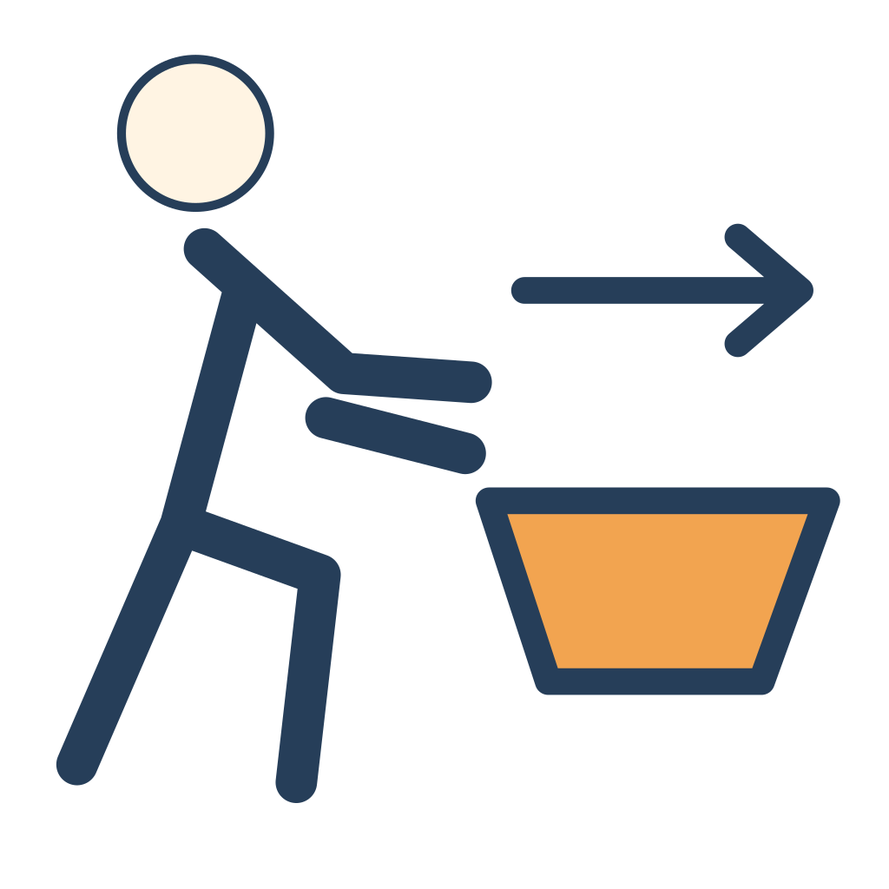
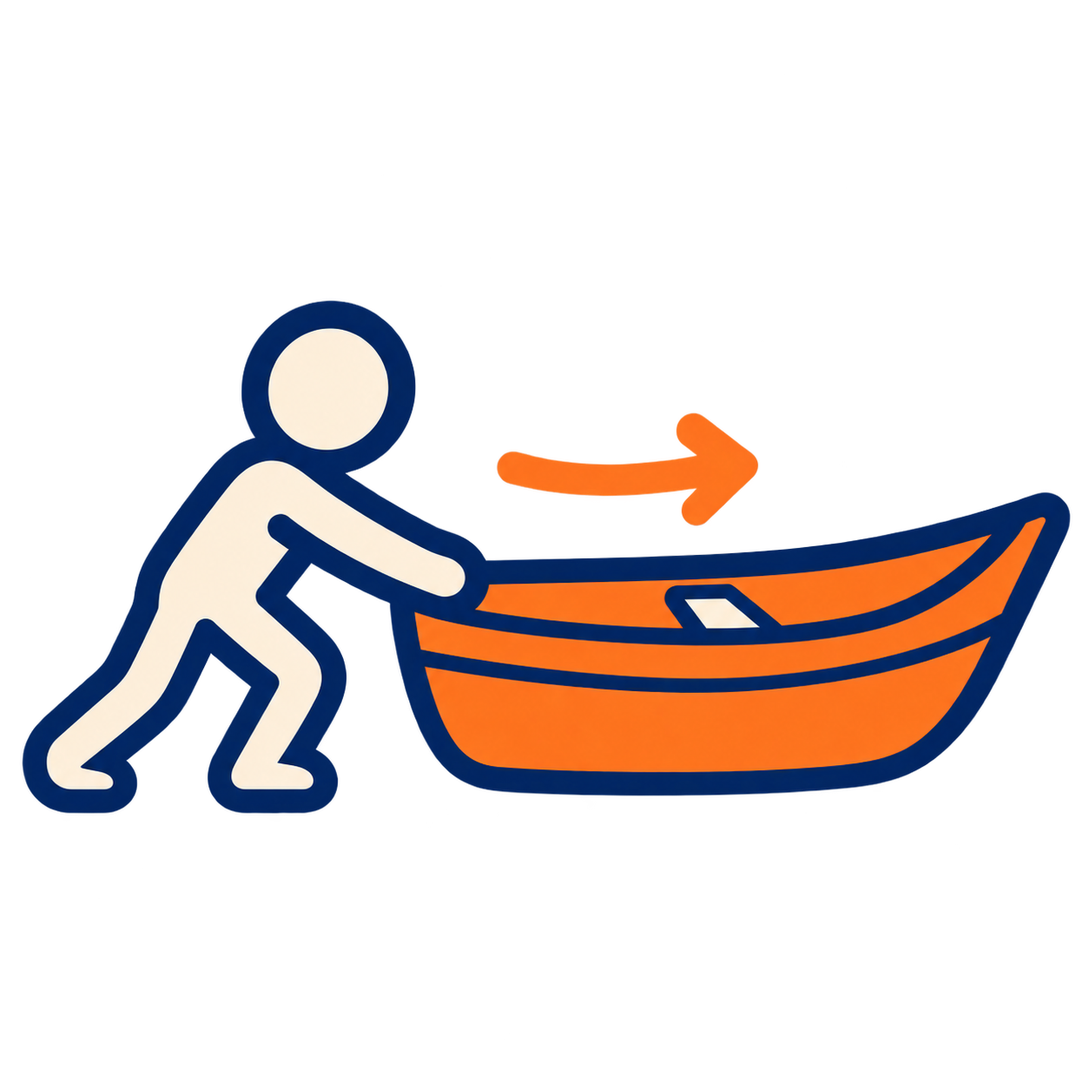
Update game for instant start, supplied illustrations and animated lever

diff --git a/game.js b/game.js
@@ -3,39 +3,53 @@
  const D=window.GAME_DATA,$=id=>document.getElementById(id);
  const timers=new Set();let audio=null,assetErrors=[],loaded=false,sound=true,allowExample=false,hints=false;
  try{sound=localStorage.getItem('kg-sound')!=='false';allowExample=localStorage.getItem('kg-example')==='true';}catch{}
- const S={phase:'cover',currentLevel:1,currentRound:0,completedRounds:0,currentResult:null,heroes:[],pairs:[],moods:[],passedFirst:false};
+ const S={phase:'loading',currentLevel:1,currentRound:0,completedRounds:0,currentResult:null,heroes:[],pairs:[],moods:[],passedFirst:false};
  const reduced=()=>matchMedia('(prefers-reduced-motion: reduce)').matches;
  function later(fn,ms){const id=setTimeout(()=>{timers.delete(id);fn();},ms);timers.add(id);return id;}
- function cancel(){for(const id of timers)clearTimeout(id);timers.clear();}
+ function cancel(){for(const id of timers)clearTimeout(id);timers.clear();for(const a of $('lever-image').getAnimations())a.cancel();}
  function persist(){try{localStorage.setItem('kg-sound',String(sound));localStorage.setItem('kg-example',String(allowExample));}catch{}}
  function beep(type){if(!sound)return;try{audio??=new(window.AudioContext||window.webkitAudioContext)();audio.resume().catch(()=>{});const o=audio.createOscillator(),g=audio.createGain();o.connect(g);g.connect(audio.destination);o.type='sine';o.frequency.setValueAtTime(type==='confirm'?660:type==='stop'?440:280,audio.currentTime);g.gain.setValueAtTime(.045,audio.currentTime);g.gain.exponentialRampToValueAtTime(.001,audio.currentTime+.13);o.start();o.stop(audio.currentTime+.15);}catch{}}
  function shuffle(items){const a=[...items];for(let i=a.length-1;i>0;i--){const j=Math.floor(Math.random()*(i+1));[a[i],a[j]]=[a[j],a[i]];}return a;}
  function resultAt(i){const pair=S.pairs[i];return{hero:S.heroes[i],action:D.actions.find(a=>a.id===pair.actionId),object:D.objects.find(o=>o.id===pair.objectId),mood:S.currentLevel===2?S.moods[i]:null,pair};}
  function sentence(r){const words=[...(r.mood?[r.mood[r.hero.gender]]:[]),r.hero.word,r.action.word,r.object.accusative];const t=words.join(' ');return t[0].toUpperCase()+t.slice(1)+'.';}
  function categories(){return [...(S.currentLevel===2?[{key:'mood',list:D.moods,question:'Какой? Какая?'}]:[]),{key:'hero',list:D.heroes,question:'Кто?'},{key:'action',list:D.actions,question:'Что делает?'},{key:'object',list:D.objects,question:'Что?'}];}
- function showScreen(id){for(const name of ['cover','game','complete'])$(name).hidden=name!==id;document.body.classList.remove('celebrating');$('confetti').replaceChildren();}
- function controls(){const ready=S.phase==='ready',awaiting=S.phase==='awaitingSpeech';$('spin').disabled=!ready;$('lever').disabled=!ready;$('confirm').disabled=!awaiting;$('hint').disabled=!awaiting;$('example').hidden=!allowExample||!awaiting;$('home').disabled=S.phase==='cover';$('round-label').textContent=`Предложение ${Math.min(S.currentRound+1,5)} из 5`;$('level-label').textContent=`УРОВЕНЬ ${S.currentLevel} · ${S.currentLevel===1?'ТРИ СЛОВА':'ЧЕТЫРЕ СЛОВА'}`;$('stars').innerHTML=Array.from({length:5},(_,i)=>`<span class="${i<S.completedRounds?'filled':''}">★</span>`).join('');$('stars').setAttribute('aria-label',`${S.completedRounds} из 5 предложений готовы`);$('sound').textContent=`Звук: ${sound?'вкл.':'выкл.'}`;$('sound').setAttribute('aria-pressed',String(sound));}
- function setCard(slot,item){const img=slot.querySelector('img');img.src=item.image;img.alt=item.alt;slot.querySelector('.hero-label').textContent=slot.dataset.key==='hero'?item.word:'';slot.querySelector('.card-image').setAttribute('aria-label',`Увеличить: ${item.alt}`);slot._item=item;}
- function drawCards(r){$('cards').classList.toggle('four',S.currentLevel===2);$('cards').replaceChildren();categories().forEach((c,i)=>{const slot=document.createElement('div');slot.className=`card-slot ${c.key}`;slot.dataset.key=c.key;slot.innerHTML=`<p class="question"><span class="order">${i+1}</span>${c.question}</p><button class="card-image"><img draggable="false"><span class="hero-label"></span></button><p class="card-hint" hidden>${c.question}</p>`;setCard(slot,r?r[c.key]:c.list[0]);slot.querySelector('button').addEventListener('click',()=>{if(S.phase==='spinning'||!slot._item)return;openModal(`<img class="zoom-image" src="${slot._item.image}" alt="${slot._item.alt}">`);});$('cards').append(slot);});}
+ function showScreen(id){for(const name of ['game','complete'])$(name).hidden=name!==id;document.body.classList.remove('celebrating');$('confetti').replaceChildren();}
+ function controls(){const ready=S.phase==='ready',awaiting=S.phase==='awaitingSpeech';$('spin').disabled=!ready;$('lever').disabled=!ready;$('confirm').disabled=!awaiting;$('hint').disabled=!awaiting;$('example').hidden=!allowExample||!awaiting;$('restart').disabled=!loaded;$('round-label').textContent=`Предложение ${Math.min(S.currentRound+1,5)} из 5`;$('level-label').textContent=`УРОВЕНЬ ${S.currentLevel} · ${S.currentLevel===1?'ТРИ СЛОВА':'ЧЕТЫРЕ СЛОВА'}`;$('stars').innerHTML=Array.from({length:5},(_,i)=>`<span class="${i<S.completedRounds?'filled':''}">★</span>`).join('');$('stars').setAttribute('aria-label',`${S.completedRounds} из 5 предложений готовы`);$('sound').textContent=`Звук: ${sound?'вкл.':'выкл.'}`;$('sound').setAttribute('aria-pressed',String(sound));}
+ function setCard(slot,item){const img=slot.querySelector('img');slot.querySelector('.category-icon')?.remove();img.hidden=false;img.src=item.image;img.alt=item.alt;slot.querySelector('.hero-label').textContent=slot.dataset.key==='hero'?item.word:'';slot.querySelector('.card-image').setAttribute('aria-label',`Увеличить: ${item.alt}`);slot._item=item;}
+ function drawCards(r){$('cards').classList.toggle('four',S.currentLevel===2);$('cards').replaceChildren();categories().forEach((c,i)=>{const slot=document.createElement('div');slot.className=`card-slot ${c.key}`;slot.dataset.key=c.key;slot.innerHTML=`<p class="question"><span class="order">${i+1}</span>${c.question}</p><button class="card-image"><img draggable="false"><span class="hero-label"></span></button><p class="card-hint" hidden>${c.question}</p>`;if(r)setCard(slot,r[c.key]);else{slot.querySelector('img').hidden=true;const icon=document.createElement('span');icon.className='category-icon';icon.setAttribute('aria-hidden','true');icon.innerHTML='<svg viewBox="0 0 100 100">'+{hero:'<circle cx="50" cy="28" r="15"/><path d="M20 85V73a30 30 0 0 1 60 0v12z"/>',action:'<path d="M20 80L80 20M35 20H80V65"/>',object:'<path d="M50 10L90 32V72L50 94L10 72V32zM10 32L50 54L90 32M50 54V94"/>',mood:'<circle cx="50" cy="50" r="40"/><path d="M30 40h2M68 40h2M30 65Q50 78 70 65"/>'}[c.key]+'</svg>';slot.querySelector('button').prepend(icon);slot.querySelector('button').disabled=true;slot.querySelector('button').setAttribute('aria-label',c.question+' — результат появится после вращения');}slot.querySelector('button').addEventListener('click',()=>{if(S.phase==='spinning'||!slot._item)return;openModal(`<img class="zoom-image" src="${slot._item.image}" alt="${slot._item.alt}">`);});$('cards').append(slot);});}
  function clearHelp(){hints=false;$('scheme').hidden=true;$('sentence').hidden=true;$('hint').textContent='Подсказка';for(const el of document.querySelectorAll('.card-hint'))el.hidden=true;}
- function start(level,passedFirst=false){if(S.phase==='spinning'||!loaded)return;cancel();$('modal').close();S.currentLevel=level;S.currentRound=0;S.completedRounds=0;S.currentResult=null;S.passedFirst=passedFirst;S.heroes=shuffle(D.heroes);S.pairs=shuffle(D.pairs);S.moods=shuffle(D.moods);S.phase='ready';clearHelp();showScreen('game');$('introduction').hidden=false;drawCards(null);$('instruction').textContent='Нажми «Крутить!» — начнём историю';controls();$('spin').focus();}
- function spin(){if(S.phase!=='ready')return;cancel();clearHelp();S.currentResult=resultAt(S.currentRound);S.phase='spinning';$('introduction').hidden=true;$('instruction').textContent='Картинки кружатся…';controls();beep('start');const cats=categories(),slots=[...$('cards').children],duration=reduced()?100:2100;
- cats.forEach((c,i)=>{const slot=slots[i];slot.classList.add('spinning');slot.querySelector('button').disabled=true;const stopAt=duration+i*(reduced()?50:250),started=performance.now();function tick(){if(S.phase!=='spinning')return;const elapsed=performance.now()-started;if(elapsed<stopAt){setCard(slot,c.list[Math.floor(Math.random()*c.list.length)]);later(tick,reduced()?100:85+elapsed/35);}else{setCard(slot,S.currentResult[c.key]);slot.classList.remove('spinning');slot.querySelector('button').disabled=false;beep('stop');if(i===cats.length-1){S.phase='awaitingSpeech';$('instruction').textContent='Составь предложение';controls();$('confirm').focus();}}}tick();});}
+ function start(level,passedFirst=false){if(!loaded)return;cancel();$('modal').close();S.currentLevel=level;S.currentRound=0;S.completedRounds=0;S.currentResult=null;S.passedFirst=passedFirst;S.heroes=shuffle(D.heroes);S.pairs=shuffle(D.pairs);S.moods=shuffle(D.moods);S.phase='ready';clearHelp();showScreen('game');drawCards(null);$('instruction').textContent='Нажми «Крутить!» — начнём историю';controls();$('spin').focus();}
+ function spin(){
+  if(S.phase!=='ready')return;
+  cancel();clearHelp();S.currentResult=resultAt(S.currentRound);S.phase='spinning';
+  $('instruction').textContent='Картинки кружатся…';controls();
+  const lever=$('lever-image');
+  if(reduced())lever.animate([{opacity:1},{opacity:.65},{opacity:1}],{duration:150});
+  else lever.animate([{transform:'rotate(0deg)',offset:0},{transform:'rotate(55deg)',offset:.34},{transform:'rotate(55deg)',offset:.51},{transform:'rotate(-3deg)',offset:.93},{transform:'rotate(0deg)',offset:1}],{duration:580,easing:'ease-in-out'});
+  later(()=>{if(S.phase!=='spinning')return;beep('start');const cats=categories(),slots=[...$('cards').children],duration=reduced()?100:2000;
+   cats.forEach((c,i)=>{const slot=slots[i];slot.classList.add('spinning');slot.querySelector('button').disabled=true;const stopAt=duration+i*(reduced()?50:250),started=performance.now();
+    function tick(){if(S.phase!=='spinning')return;const elapsed=performance.now()-started;
+     if(elapsed<stopAt){setCard(slot,c.list[Math.floor(Math.random()*c.list.length)]);later(tick,reduced()?100:85+elapsed/35);}
+     else{setCard(slot,S.currentResult[c.key]);slot.classList.remove('spinning');slot.querySelector('button').disabled=false;beep('stop');if(i===cats.length-1){S.phase='awaitingSpeech';$('instruction').textContent='Составь предложение';controls();$('confirm').focus();}}
+    }tick();
+   });
+  },reduced()?0:200);
+ }
  function confirmAnswer(){if(S.phase!=='awaitingSpeech')return;S.phase='celebrating';S.completedRounds++;controls();clearHelp();$('instruction').textContent='Отличная история!';document.body.classList.add('celebrating');beep('confirm');later(()=>{document.body.classList.remove('celebrating');if(S.completedRounds===5){S.phase=S.currentLevel===1?'levelComplete':'finished';if(S.currentLevel===1)S.passedFirst=true;finish();}else{S.currentRound++;S.phase='ready';$('instruction').textContent='Готовы к новой истории? Нажми «Крутить!»';controls();$('spin').focus();}},800);}
- function finish(){showScreen('complete');$('complete-title').textContent=S.currentLevel===1?'Ты составил 5 предложений!':`Отлично! Ты составил ${S.passedFirst?10:5} предложений!`;$('complete-message').textContent=S.currentLevel===1?'Теперь добавим настроение':'Сколько интересных историй получилось!';const actions=$('complete-actions');actions.replaceChildren();function add(text,fn,primary){const b=document.createElement('button');b.className=primary?'primary':'quiet';b.textContent=text;b.onclick=fn;actions.append(b);}if(S.currentLevel===1){add('Уровень 2',()=>start(2,true),true);add('Повторить уровень 1',()=>start(1));}else{add('Играть сначала',()=>start(1),true);add('На главный экран',home);if(!reduced()){for(let i=0;i<32;i++){const el=document.createElement('i');el.style.left=`${Math.random()*100}%`;el.style.background=['#e7b557','#78bbb5','#b5a0d3','#ed9b87'][i%4];el.style.animationDelay=`${Math.random()*.4}s`;$('confetti').append(el);}later(()=>$('confetti').replaceChildren(),2600);}}controls();actions.querySelector('button').focus();}
- function home(){cancel();$('modal').close();S.phase='cover';S.currentResult=null;S.completedRounds=0;S.currentRound=0;S.passedFirst=false;showScreen('cover');clearHelp();controls();$('play').focus();}
+ function finish(){showScreen('complete');$('complete-title').textContent=S.currentLevel===1?'Ты составил 5 предложений!':`Отлично! Ты составил ${S.passedFirst?10:5} предложений!`;$('complete-message').textContent=S.currentLevel===1?'Теперь добавим настроение':'Сколько интересных историй получилось!';const actions=$('complete-actions');actions.replaceChildren();function add(text,fn,primary){const b=document.createElement('button');b.className=primary?'primary':'quiet';b.textContent=text;b.onclick=fn;actions.append(b);}if(S.currentLevel===1){add('Уровень 2',()=>start(2,true),true);add('Повторить уровень 1',()=>start(1));}else{add('Играть сначала',()=>start(1),true);if(!reduced()){for(let i=0;i<32;i++){const el=document.createElement('i');el.style.left=`${Math.random()*100}%`;el.style.background=['#e7b557','#78bbb5','#b5a0d3','#ed9b87'][i%4];el.style.animationDelay=`${Math.random()*.4}s`;$('confetti').append(el);}later(()=>$('confetti').replaceChildren(),2600);}}controls();actions.querySelector('button').focus();}
  function openModal(html){$('modal-content').innerHTML=html;if(!$('modal').open)$('modal').showModal();}
- function settings(){openModal(`<h2>Для взрослого</h2><p>Ребёнок отвечает вслух. Вы подтверждаете любой осмысленный ответ, в том числе расширенный. Микрофон не используется.</p><label class="settings-row"><input type="checkbox" id="example-setting" ${allowExample?'checked':''}>Разрешить кнопку «Показать пример»</label><button id="direct-level" class="primary" ${S.phase==='spinning'?'disabled':''}>Начать уровень 2</button><h3>Познакомьтесь с действиями</h3><p>Покажите знаки ребёнку. Если знак непонятен, объясните движение перед игрой.</p><div class="asset-review">${D.actions.map(a=>`<figure><img src="${a.image}" alt="${a.alt}"><figcaption>${a.word}</figcaption></figure>`).join('')}</div>${assetErrors.length?`<h3>Не удалось загрузить ресурсы</h3><ul class="error-list">${assetErrors.map(p=>`<li>${p}</li>`).join('')}</ul><p>Проверьте наличие файлов и обновите страницу.</p>`:''}`);$('example-setting').onchange=e=>{allowExample=e.target.checked;persist();controls();if(!allowExample)$('sentence').hidden=true;};$('direct-level').onclick=()=>{if(S.phase==='cover'||S.phase==='finished'||S.phase==='levelComplete')start(2);else{openModal('<h2>Начать второй уровень?</h2><p>Текущий прогресс будет сброшен.</p><button id="accept-level" class="primary">Начать уровень 2</button>');$('accept-level').onclick=()=>start(2);}};}
- $('play').onclick=()=>start(1);$('spin').onclick=spin;$('lever').onclick=spin;$('confirm').onclick=confirmAnswer;$('settings').onclick=settings;
+ function settings(){openModal(`<h2>Для взрослого</h2><p>Ребёнок отвечает вслух. Вы подтверждаете любой осмысленный ответ, в том числе расширенный. Микрофон не используется.</p><label class="settings-row"><input type="checkbox" id="example-setting" ${allowExample?'checked':''}>Разрешить кнопку «Показать пример»</label><button id="direct-level" class="primary" ${S.phase==='spinning'||!loaded?'disabled':''}>Начать уровень 2</button><h3>Познакомьтесь с действиями</h3><p>Покажите знаки ребёнку. Если знак непонятен, объясните движение перед игрой.</p><div class="asset-review">${D.actions.map(a=>`<figure><img src="${a.image}" alt="${a.alt}"><figcaption>${a.word}</figcaption></figure>`).join('')}</div>${assetErrors.length?`<h3>Не удалось загрузить ресурсы</h3><ul class="error-list">${assetErrors.map(p=>`<li>${p}</li>`).join('')}</ul><p>Проверьте наличие файлов и обновите страницу.</p>`:''}`);$('example-setting').onchange=e=>{allowExample=e.target.checked;persist();controls();if(!allowExample)$('sentence').hidden=true;};$('direct-level').onclick=()=>{if(S.phase==='ready'&&S.currentRound===0||S.phase==='finished'||S.phase==='levelComplete')start(2);else{openModal('<h2>Начать второй уровень?</h2><p>Текущий прогресс будет сброшен.</p><button id="accept-level" class="primary">Начать уровень 2</button>');$('accept-level').onclick=()=>start(2);}};}
+ $('spin').onclick=spin;$('lever').onclick=spin;$('confirm').onclick=confirmAnswer;$('settings').onclick=settings;
  $('sound').onclick=()=>{sound=!sound;persist();controls();if(sound)beep('stop');};
  $('hint').onclick=()=>{if(S.phase!=='awaitingSpeech')return;hints=!hints;for(const el of document.querySelectorAll('.card-hint'))el.hidden=!hints;$('scheme').textContent=categories().map(c=>c.question).join(' → ');$('scheme').hidden=!hints;$('hint').textContent=hints?'Скрыть подсказку':'Подсказка';};
  $('example').onclick=()=>{if(S.phase!=='awaitingSpeech'||!allowExample)return;$('sentence').textContent=sentence(S.currentResult);$('sentence').hidden=!$('sentence').hidden;};
- $('home').onclick=()=>{if(S.phase==='cover')return;openModal('<h2>Выйти на главный экран?</h2><p>Прогресс этой игры будет сброшен.</p><button id="accept-home" class="primary">Выйти</button> <button id="stay-home" class="quiet">Продолжить игру</button>');$('accept-home').onclick=home;$('stay-home').onclick=()=>$('modal').close();};
+ $('restart').onclick=()=>{if(!loaded)return;openModal('<h2>Начать игру заново?</h2><p>Прогресс этой игры будет сброшен.</p><button id="accept-restart" class="primary">Начать заново</button> <button id="stay-restart" class="quiet">Продолжить игру</button>');$('accept-restart').onclick=()=>start(1);$('stay-restart').onclick=()=>$('modal').close();};
+ $('heroes').onclick=()=>openModal('<h2>Наши герои</h2><div id="gallery">'+D.heroes.map(h=>`<figure>${assetErrors.includes(h.image)?'<p>Картинка ещё не добавлена</p>':`<img src="${h.image}" alt="${h.alt}">`}<figcaption>Это ${h.word}.</figcaption></figure>`).join('')+'</div>');
  $('rules').onclick=()=>openModal('<h2>Как играть</h2><p>Нажми на кнопку. Посмотри на картинки. Составь предложение. На втором уровне добавь настроение героя.</p><p>Взрослый нажимает «Предложение готово!», когда ребёнок ответил. Следующая история начинается только по вашему нажатию.</p>');
  $('close-modal').onclick=()=>$('modal').close();$('modal').addEventListener('click',e=>{if(e.target===$('modal')){const r=$('modal').getBoundingClientRect();if(e.clientX<r.left||e.clientX>r.right||e.clientY<r.top||e.clientY>r.bottom)$('modal').close();}});
  if(document.fullscreenEnabled&&document.documentElement.requestFullscreen){$('fullscreen').hidden=false;$('fullscreen').setAttribute('aria-label','Во весь экран');$('fullscreen').onclick=async()=>{try{if(document.fullscreenElement)await document.exitFullscreen();else await document.documentElement.requestFullscreen();}catch{}};}
- for(const hero of D.heroes){const f=document.createElement('figure'),img=document.createElement('img'),caption=document.createElement('figcaption');img.src=hero.image;img.alt=hero.alt;caption.textContent=`Это ${hero.word}.`;f.append(img,caption);$('gallery').append(f);}
- $('play').disabled=true;controls();
- const assets=[...D.heroes,...D.actions,...D.objects,...D.moods].map(x=>x.image).concat(D.backgrounds);
- Promise.all(assets.map(src=>new Promise(resolve=>{const img=new Image();img.onload=()=>resolve();img.onerror=()=>{assetErrors.push(src);resolve();};img.src=src;}))).then(()=>{loaded=assetErrors.length===0;$('play').disabled=!loaded;$('loading').textContent=loaded?'Все картинки готовы':'Не удалось загрузить картинки. Откройте настройки взрослого.';if(loaded)later(()=>$('loading').hidden=true,1500);});
+ drawCards(null);$('instruction').textContent='Загружаем картинки…';controls();
+ const assets=[...D.heroes,...D.actions,...D.objects,...D.moods].map(x=>x.image).concat(D.backgrounds,D.interface);
+ let remaining=assets.length;
+ Promise.all(assets.map(src=>new Promise(resolve=>{const img=new Image();const finish=()=>{remaining--;$('loading').textContent=`Загружаем картинки: ${assets.length-remaining} из ${assets.length}`;resolve();};img.onload=finish;img.onerror=()=>{assetErrors.push(src);finish();};img.src=src;}))).then(()=>{loaded=assetErrors.length===0;if(loaded){$('loading').hidden=true;start(1);}else{S.phase='assetError';showScreen('game');drawCards(null);$('loading').textContent='Набор картинок неполный. Откройте настройки взрослого.';$('instruction').textContent='Для запуска нужны недостающие картинки';controls();}});
 })();

diff --git a/styles.css b/styles.css
@@ -2,3 +2,29 @@
 @media(max-width:700px) and (orientation:portrait){header{padding:10px}.brand{font-size:16px}nav{gap:3px}.quiet{padding:10px}#home span{display:none}.cover{padding-top:55px;background-size:auto 100%}.cover h1{letter-spacing:-2px}.cover-demo{gap:5px}.cover-demo span{padding:10px}.game-top{margin-bottom:8px}h2{font-size:17px}.stars{font-size:25px;letter-spacing:2px}.cards,.cards.four{grid-template-columns:repeat(2,minmax(0,1fr));gap:10px}.cards:not(.four) .card-slot:last-child{grid-column:1 / -1;width:calc(50% - 5px);justify-self:center}.machine{padding:10px;border-radius:20px}.lever{display:none}.card-image,.four .card-image{height:clamp(145px,23dvh,240px);border-width:5px;border-radius:15px}.question{font-size:12px;margin-bottom:5px}.order{width:21px;height:21px}.question:after{content:' →';font-size:15px}.card-slot:last-child .question:after{content:''}#gallery{gap:4px}#gallery img{width:48px;height:48px}#gallery figure{font-size:10px}.intro{padding:6px}#instruction{font-size:18px;margin:5px 0 12px}.controls{gap:8px}.primary{font-size:16px;padding:12px 14px;gap:8px}.game-bottom{padding-top:10px}.sentence{font-size:18px}footer{font-size:10px;padding:8px}}
 @media(max-height:600px) and (orientation:landscape){header{padding:6px 2%}.brand{font-size:18px}.intro{padding:3px}#gallery img{height:45px;width:45px}.intro>p{font-size:11px}.card-image,.four .card-image{height:43dvh;min-height:115px}.game-top{margin-bottom:5px}h2{font-size:17px}.stars{font-size:26px}.question{font-size:12px;margin-bottom:4px}.machine{padding:7px 32px 7px 7px}.cards{gap:10px}.game-bottom{padding-top:5px}#instruction{font-size:16px;margin:4px 0 8px}.primary{padding:10px 16px;font-size:16px}.cover{padding-top:12px}.cover h1{font-size:45px;margin:10px}.cover-demo{margin:10px}.cover-note{margin:15px}footer{padding:5px}}
 @media(prefers-reduced-motion:reduce){*,*:before,*:after{animation:none!important;scroll-behavior:auto!important}}
+/* The supplied frame and its HTML overlays share a single coordinate system. */
+.machine{width:min(88%,calc(177.7dvh - 600px));margin:0 auto;aspect-ratio:1672/941;padding:0;background:transparent;border-radius:0;box-shadow:none;overflow:visible}
+.machine-frame{position:absolute;inset:0;width:100%;height:100%;object-fit:contain;pointer-events:none}
+.machine .cards{position:absolute;left:9.5%;top:20%;width:76%;height:54%;gap:1.3%;align-items:stretch}
+.machine .card-slot{display:flex;flex-direction:column;min-height:0}
+.machine .question{font-size:clamp(12px,1.2vw,18px);flex-shrink:0;margin:0 0 6px}
+.machine .card-image,.machine .four .card-image{height:auto;min-height:0;flex:1;border-width:5px;padding:3px;border-radius:17px;box-shadow:none}
+.machine .card-hint{margin:3px 0 0;font-size:12px;flex-shrink:0}
+.category-icon{display:grid;place-items:center;flex:1;color:#86aaa9;font-size:clamp(50px,8vw,120px)}
+.machine .lever{display:block;position:absolute;left:84.2%;top:20%;width:25%;height:39%;min-height:44px;padding:0;background:transparent;border:0;transform:none;z-index:2}
+.machine .lever:before{display:none}
+.machine .lever img{display:block;width:100%;height:100%;object-fit:contain;transform-origin:50% 89%;pointer-events:none}
+.machine .lever:disabled{opacity:1}
+.machine .lever:focus-visible{outline-offset:-25px}
+#loading{text-align:center;color:#755326;font-size:14px;margin:8px}
+#gallery img{width:95px;height:110px}#gallery figure{max-width:110px}
+@media(max-width:700px) and (orientation:portrait){
+ .brand{font-size:14px}#restart span{display:none}header{gap:4px}#restart{padding:10px}.machine{width:100%;aspect-ratio:auto;background:#82cbc4;padding:12px 40px 12px 10px;border-radius:22px;box-shadow:0 5px 0 #5eaba6}
+ .machine-frame{display:none}.machine .cards{position:static;width:100%;height:auto;gap:10px}.machine .card-image,.machine .four .card-image{height:clamp(145px,23dvh,230px);flex:auto}.machine .question{font-size:12px}.machine .lever{left:auto;right:-8px;top:30%;width:95px;height:150px}.machine .lever:focus-visible{outline-offset:-18px}#gallery{flex-wrap:wrap;gap:10px}#gallery img{width:75px;height:100px}
+}
+@media(max-height:600px) and (orientation:landscape){
+ .machine{width:min(88%,calc(177.7dvh - 385px))}.game-top{margin-bottom:3px}.machine .question{font-size:10px;margin-bottom:2px}.machine .order{width:17px;height:17px;font-size:10px}.machine .card-image,.machine .four .card-image{border-width:3px;border-radius:10px}.hero-label{font-size:10px;height:17px}.game-bottom .controls{gap:6px}.game-bottom .quiet{font-size:12px;padding:8px 10px}.game-bottom .primary{font-size:13px;padding:8px 12px}.game-bottom #instruction{font-size:14px;margin:3px 0 6px}
+}
+
+.category-icon svg{width:60%;height:60%;max-width:140px;max-height:140px;stroke:currentColor;stroke-width:4;fill:none;stroke-linecap:round;stroke-linejoin:round}
+@media(max-width:700px) and (orientation:portrait){.machine .lever{right:0;top:36%;width:65px;height:65px}.machine .lever img{object-fit:fill}}

diff --git a/index.html b/index.html
@@ -1,7 +1,6 @@
 <!doctype html>
 <html lang="ru"><head><meta charset="utf-8"><meta name="viewport" content="width=device-width,initial-scale=1,viewport-fit=cover"><meta name="theme-color" content="#65bdb8"><title>Крути и говори! — предложения по картинкам</title><link rel="stylesheet" href="styles.css"><script defer src="data.js"></script><script defer src="game.js"></script></head>
-<body><div class="app"><header><button id="home" class="quiet">⌂ <span>Домой</span></button><div class="brand">Крути и говори<span class="brand-dot">!</span></div><nav aria-label="Настройки"><button id="sound" class="quiet" aria-pressed="true">Звук: вкл.</button><button id="fullscreen" class="quiet" hidden>⛶</button><button id="settings" class="quiet" aria-label="Настройки взрослого">⚙</button></nav></header>
-<main><section id="cover" class="cover"><div class="eyebrow">ИГРАЕМ · ДУМАЕМ · ГОВОРИМ</div><h1>Крути<br>и говори<span>!</span></h1><p class="subtitle">Составляй предложения по картинкам</p><div class="cover-demo" aria-hidden="true"><span>Кто?</span><b>→</b><span>Что делает?</span><b>→</b><span>Что?</span></div><button id="play" class="primary">Играть <span>→</span></button><button id="rules" class="quiet">Как играть</button><p class="cover-note">Два уровня · 10 маленьких историй<br>Для детей и взрослых</p><p id="loading" role="status">Загружаем картинки…</p></section>
-<section id="game" hidden><div class="game-top"><div><span class="eyebrow" id="level-label"></span><h2 id="round-label"></h2></div><div id="stars" class="stars" aria-label="Прогресс"></div></div><div id="introduction" class="intro"><p>Познакомимся с героями</p><div id="gallery"></div></div><div class="machine"><div id="cards" class="cards"></div><button id="lever" class="lever" aria-label="Крутить картинки"><span></span></button></div><div class="game-bottom"><p id="instruction" role="status" aria-live="polite"></p><div class="controls"><button id="spin" class="primary">Крутить! <span>↻</span></button><button id="confirm" class="primary gold" disabled>Предложение готово! <span>✓</span></button><button id="hint" class="quiet" disabled>Подсказка</button><button id="example" class="quiet" hidden>Показать пример</button></div><p id="sentence" class="sentence" hidden></p><p id="scheme" class="scheme" hidden></p></div></section>
+<body><div class="app"><header><button id="restart" class="quiet">↻ <span>Начать заново</span></button><div class="brand">Крути и говори<span class="brand-dot">!</span></div><nav aria-label="Настройки"><button id="sound" class="quiet" aria-pressed="true">Звук: вкл.</button><button id="fullscreen" class="quiet" hidden>⛶</button><button id="settings" class="quiet" aria-label="Настройки взрослого">⚙</button></nav></header>
+<main><section id="game"><div class="game-top"><div><span class="eyebrow" id="level-label"></span><h2 id="round-label"></h2></div><div id="stars" class="stars" aria-label="Прогресс"></div></div><div class="machine"><img id="machine-frame" class="machine-frame" src="assets/interface/machine-frame.png" alt="" aria-hidden="true"><div id="cards" class="cards"></div><button id="lever" class="lever" aria-label="Потянуть рычаг и крутить"><img id="lever-image" src="assets/interface/machine-lever.png" alt=""></button></div><p id="loading" role="status">Загружаем картинки…</p><div class="game-bottom"><p id="instruction" role="status" aria-live="polite"></p><div class="controls"><button id="spin" class="primary">Крутить! <span>↻</span></button><button id="confirm" class="primary gold" disabled>Предложение готово! <span>✓</span></button><button id="heroes" class="quiet">Герои</button><button id="rules" class="quiet">Как играть</button><button id="hint" class="quiet" disabled>Подсказка</button><button id="example" class="quiet" hidden>Показать пример</button></div><p id="sentence" class="sentence" hidden></p><p id="scheme" class="scheme" hidden></p></div></section>
 <section id="complete" class="complete" hidden><div class="finish-stars" aria-hidden="true">★ ★ ★</div><h1 id="complete-title"></h1><p id="complete-message"></p><div id="complete-actions"></div></section></main><footer>Маленькое предложение — большая история</footer></div>
 <dialog id="modal"><button id="close-modal" class="modal-close" aria-label="Закрыть">×</button><div id="modal-content"></div></dialog><div id="confetti" aria-hidden="true"></div></body></html>

diff --git a/data.js b/data.js
@@ -10,5 +10,6 @@ window.GAME_DATA = (() => {
  objects:[object('squirrel','белка','белку','Рыжая белка с пушистым хвостом'),object('chocolate','шоколад','шоколад','Плитка шоколада без упаковки'),object('kolobok','колобок','колобка','Золотистый сказочный колобок'),object('boat','лодка','лодку','Деревянная лодка'),object('doll','кукла','куклу','Кукла в сиреневом платье с игрушечными суставами')],
  moods:[mood('happy','весёлый','весёлая','Весёлое жёлтое личико'),mood('sad','грустный','грустная','Грустное жёлтое личико'),mood('surprised','удивлённый','удивлённая','Удивлённое жёлтое личико'),mood('angry','сердитый','сердитая','Сердитое жёлтое личико'),mood('sleepy','сонный','сонная','Сонное жёлтое личико')],
  pairs:[{id:'stroke_squirrel',actionId:'stroke',objectId:'squirrel'},{id:'break_chocolate',actionId:'break',objectId:'chocolate'},{id:'catch_kolobok',actionId:'catch',objectId:'kolobok'},{id:'push_boat',actionId:'push',objectId:'boat'},{id:'put_doll_to_bed',actionId:'put-to-bed',objectId:'doll'}],
- backgrounds:['assets/backgrounds/game-background.png','assets/backgrounds/cover-background.png']};
+ backgrounds:['assets/backgrounds/game-background.png'],
+ interface:['assets/interface/machine-frame.png','assets/interface/machine-lever.png']};
 })();

diff --git a/README.md b/README.md
@@ -12,23 +12,27 @@ python3 -m http.server 8000 --bind 127.0.0.1
 
 Установка зависимостей и сборка не требуются. HTML подключает обычные `defer`-скрипты; данные не загружаются через fetch. Все ресурсы локальные и используют относительные пути.
 
-## Игра
+## Новое оформление и запуск
 
-Познакомьте ребёнка с героями и знаками действий. Нажмите «Крутить!», дождитесь остановки и предложите составить предложение. «Предложение готово!» нажимает взрослый. Расширенные осмысленные ответы тоже допустимы. Следующий раунд запускается вручную.
+Игра сразу показывает рабочий экран первого уровня без обложки и кнопки «Играть». До первого вращения в окнах нейтральные знаки категорий. После предзагрузки полного набора становится доступна кнопка «Крутить!». «Герои» и «Как играть» открывают необязательные окна, не сбрасывая раунд. «Начать заново» после подтверждения сбрасывает всю сессию на первый уровень.
 
-Настройки взрослого открываются кнопкой ⚙. Там доступны знакомство с пятью действиями, прямой запуск второго уровня и включение текстового примера. Пример по умолчанию скрыт. Подсказка, увеличение карточки и пример не засчитывают ответ. В браузере сохраняются только две настройки: звук и доступность примера.
+Корпус расположен в общей системе координат с карточками; в вертикальном режиме применяется компактный CSS-корпус без растягивания PNG. Отдельный рычаг внутри настоящей кнопки опускается на 55° за 200 мс, задерживается на 100 мс и возвращается за 280 мс. Запуск через основную кнопку вызывает такое же движение. При reduced motion используется мягкая подсветка. Перезапуск отменяет таймеры и анимации.
+
+## Статус материалов
+
+Набор полный: 23 PNG. Двадцать карточек и игровой фон предоставлены пользователем и сохранены без изменения байтов. Лошадь взята из отдельного архива «Милая мультяшная лошадка.png.zip». Корпус обновлён генератором изображений: ручка удалена, белое поле очищено; отдельный рычаг также сгенерирован. Пользовательская лошадь стоит на четырёх ногах без комбинезона — используется выбранная пользователем иллюстрация.
+
+При недоступном файле запуск заблокирован, а настройки взрослого показывают конкретный путь. Добавьте PNG под указанными именами и обновите страницу; код менять не потребуется. Не заменяйте эти ресурсы emoji.
 
 ## Структура и изменение данных
 
-- `data.js` — герои, действия, объекты, настроения и пять допустимых пар.
-- `game.js` — состояния, Fisher–Yates, анимация, подтверждение и интерфейс.
-- `styles.css` — оформление, адаптация и reduced motion.
-- `assets/` — 20 прозрачных карточек 1024×1024 и два фона 1920×1080.
-- `ASSETS.md` — происхождение и перечень изображений.
+- `data.js` — герои, действия, объекты, настроения, связанные пары и пути ресурсов.
+- `game.js` — состояния, Fisher–Yates, движение рычага, вращение и подтверждение.
+- `styles.css` — расположение внутри корпуса, адаптация и reduced motion.
+- `assets/` — предоставленные пользователем изображения.
+- `ASSETS.md` — происхождение, перечень и статус каждого изображения.
 
-При замене иллюстрации сохраняйте имя файла и прозрачность. Для изменения лексики обновляйте формы слов в `data.js`. Действия и объекты выбираются через `pairs`, а не независимо. Текущий алгоритм предполагает пять элементов каждой категории и пять раундов. Для иного количества нужно отдельно изменить логику прогресса.
-
-При недоступном файле запуск блокируется, а настройки взрослого показывают конкретный путь. Не заменяйте отсутствующие изображения emoji.
+Настройки взрослого позволяют сразу открыть второй уровень и включить текстовый пример (по умолчанию скрыт). Подсказки и увеличение карточек не засчитывают ответ. Сохраняются только звук и доступность примера.
 
 ## GitHub Pages
 
@@ -52,8 +56,13 @@ python3 -m http.server 8000 --bind 127.0.0.1
 
 ## Проверки
 
-Проверено в Chromium: последовательное прохождение уровней, прямой второй уровень, уникальность всех очередей, допустимые пары, согласование рода, двойное подтверждение, отмена таймеров при выходе, загрузка ресурсов, адаптация 1600×900, 390×844, 844×390 и 768×1024. Анимации учитывают `prefers-reduced-motion`. Проверены также обычная анимация, отмена её таймеров при выходе, увеличение/Escape, iframe и работа при заблокированном localStorage. Открытие `file://` в браузере облачной среды заблокировано политикой; используйте HTTP.
+Тесты требуют Node.js, Playwright и Chromium в `/usr/bin/chromium`. Эти инструменты доступны в текущей облачной среде. Запустите HTTP-сервер на порту 8010, затем:
 
-Регрессионные проверки находятся в `tests/game.cjs` и `tests/browser.cjs`. Для них требуется Node.js с Playwright и Chromium в `/usr/bin/chromium`; установите Playwright отдельно от приложения (например, в `/tmp/kg-tests`), запустите HTTP-сервер на порту 8000, затем выполните оба файла через Node. В текущей облачной среде Playwright и Chromium уже доступны.
+```sh
+node tests/game.cjs
+node tests/browser.cjs
+```
 
-Перед занятиями взрослому рекомендуется оценить узнаваемость пяти пиктограмм на реальном устройстве. Автоматические проверки не подтверждают их понятность конкретному ребёнку.
+При другом порте задайте `GAME_URL`. `game.cjs` проверяет реальную предзагрузку и конкретные сообщения об отсутствующих файлах. `browser.cjs` требует полный набор и проверяет оба уровня, уникальность очередей, допустимые пары, двойные клики, прямой второй уровень, правила, галерею, перезапуск, анимацию рычага и четыре размера экрана.
+
+Для изолированной проверки механики можно использовать `KG_TEST_FIXTURES=1 node tests/browser.cjs`: отсутствующий PNG заменяется только в памяти тестового браузера. Этот режим не нужен для полного набора: стандартные проверки выполняются с настоящими картинками. Подстановки не записываются в игру.

diff --git a/ASSETS.md b/ASSETS.md
@@ -1,40 +1,35 @@
-# Иллюстрации «Крути и говори!»
+# Пользовательские изображения
 
-Все 22 изображения созданы специально для проекта из оригинальных геометрических векторных рисунков. Внешние изображения, emoji, CDN и готовые стоки не использованы. Источник — `assets-source.py`; экспорт выполнен CairoSVG 2.9.1. Исходные описания — предоставленное ТЗ.
+Источник: архив `Kruti_i_govori_assets_and_TZ.zip`, предоставленный пользователем. 20 PNG перенесены без изменения байтов; корпус заменён исправленной генерацией. В архиве использована более ранняя редакция ТЗ; реализация ориентируется на отдельно приложенное новое ТЗ.
 
-Карточки — PNG RGBA 1024×1024 с настоящей прозрачностью; фоны — непрозрачные PNG 1920×1080. Иллюстрации готовы и включены в игру. Узнаваемость действий взрослым/детьми пока не подтверждена; галерея для просмотра находится в настройках взрослого.
+| Файл | Статус |
+|---|---|
+| `assets/actions/action-break.png` | Подключён без изменения |
+| `assets/actions/action-catch.png` | Подключён без изменения |
+| `assets/actions/action-push.png` | Подключён без изменения |
+| `assets/actions/action-put-to-bed.png` | Подключён без изменения |
+| `assets/actions/action-stroke.png` | Подключён без изменения |
+| `assets/backgrounds/game-background.png` | Подключён без изменения |
+| `assets/heroes/hero-elephant.png` | Подключён без изменения |
+| `assets/heroes/hero-mila.png` | Подключён без изменения |
+| `assets/heroes/hero-pavel.png` | Подключён без изменения |
+| `assets/heroes/hero-wolf.png` | Подключён без изменения |
+| `assets/interface/machine-frame.png` | Сгенерирован из пользовательского корпуса: ручка удалена, центр очищен |
+| `assets/moods/mood-angry.png` | Подключён без изменения |
+| `assets/moods/mood-happy.png` | Подключён без изменения |
+| `assets/moods/mood-sad.png` | Подключён без изменения |
+| `assets/moods/mood-sleepy.png` | Подключён без изменения |
+| `assets/moods/mood-surprised.png` | Подключён без изменения |
+| `assets/objects/object-boat.png` | Подключён без изменения |
+| `assets/objects/object-chocolate.png` | Подключён без изменения |
+| `assets/objects/object-doll.png` | Подключён без изменения |
+| `assets/objects/object-kolobok.png` | Подключён без изменения |
+| `assets/objects/object-squirrel.png` | Подключён без изменения |
+| `assets/heroes/hero-horse.png` | Предоставлен пользователем отдельно, подключён без изменения |
+| `assets/interface/machine-lever.png` | Сгенерирован и подключён |
 
-| Файл | Размер | Статус |
-|---|---|---|
-| `assets/actions/action-break.png` | 1024×1024 | Создан, включён |
-| `assets/actions/action-catch.png` | 1024×1024 | Создан, включён |
-| `assets/actions/action-push.png` | 1024×1024 | Создан, включён |
-| `assets/actions/action-put-to-bed.png` | 1024×1024 | Создан, включён |
-| `assets/actions/action-stroke.png` | 1024×1024 | Создан, включён |
-| `assets/backgrounds/cover-background.png` | 1920×1080 | Создан, включён |
-| `assets/backgrounds/game-background.png` | 1920×1080 | Создан, включён |
-| `assets/heroes/hero-elephant.png` | 1024×1024 | Создан, включён |
-| `assets/heroes/hero-horse.png` | 1024×1024 | Создан, включён |
-| `assets/heroes/hero-mila.png` | 1024×1024 | Создан, включён |
-| `assets/heroes/hero-pavel.png` | 1024×1024 | Создан, включён |
-| `assets/heroes/hero-wolf.png` | 1024×1024 | Создан, включён |
-| `assets/moods/mood-angry.png` | 1024×1024 | Создан, включён |
-| `assets/moods/mood-happy.png` | 1024×1024 | Создан, включён |
-| `assets/moods/mood-sad.png` | 1024×1024 | Создан, включён |
-| `assets/moods/mood-sleepy.png` | 1024×1024 | Создан, включён |
-| `assets/moods/mood-surprised.png` | 1024×1024 | Создан, включён |
-| `assets/objects/object-boat.png` | 1024×1024 | Создан, включён |
-| `assets/objects/object-chocolate.png` | 1024×1024 | Создан, включён |
-| `assets/objects/object-doll.png` | 1024×1024 | Создан, включён |
-| `assets/objects/object-kolobok.png` | 1024×1024 | Создан, включён |
-| `assets/objects/object-squirrel.png` | 1024×1024 | Создан, включён |
+План полного набора: 20 карточек, фон, неподвижный корпус и отдельный рычаг — 23 файла. Предоставленные карточки имеют размер 1254×1254, фон — 1672×941. Размеры новых генераций сохраняются без растягивания в интерфейсе. Автоматический повторный экспорт старой графики удалён, чтобы не перезаписать пользовательские изображения.
 
-## Повторный экспорт (не нужен для запуска игры)
+Корпус и рычаг созданы инструментом image_gen по запросу пользователя. Оригиналы сохранены в `/workspace/generated_images/`. Все изображения имеют настоящий прозрачный внешний фон.
 
-```sh
-python3 -m venv /tmp/kg-art-venv
-/tmp/kg-art-venv/bin/pip install CairoSVG==2.9.1
-/tmp/kg-art-venv/bin/python assets-source.py
-```
-
-Экспорт заменяет только созданные изображения в `assets/`; не запускайте его поверх собственных заменённых иллюстраций. Рисунки используют единый контур и пастельную палитру; действия — плоские знаки с тёмно-синим контуром, оранжевым акцентом и светлой заливкой.
+Полный набор содержит 23 PNG. Лошадь получена из отдельного пользовательского ZIP; предыдущий блокер устранён.
